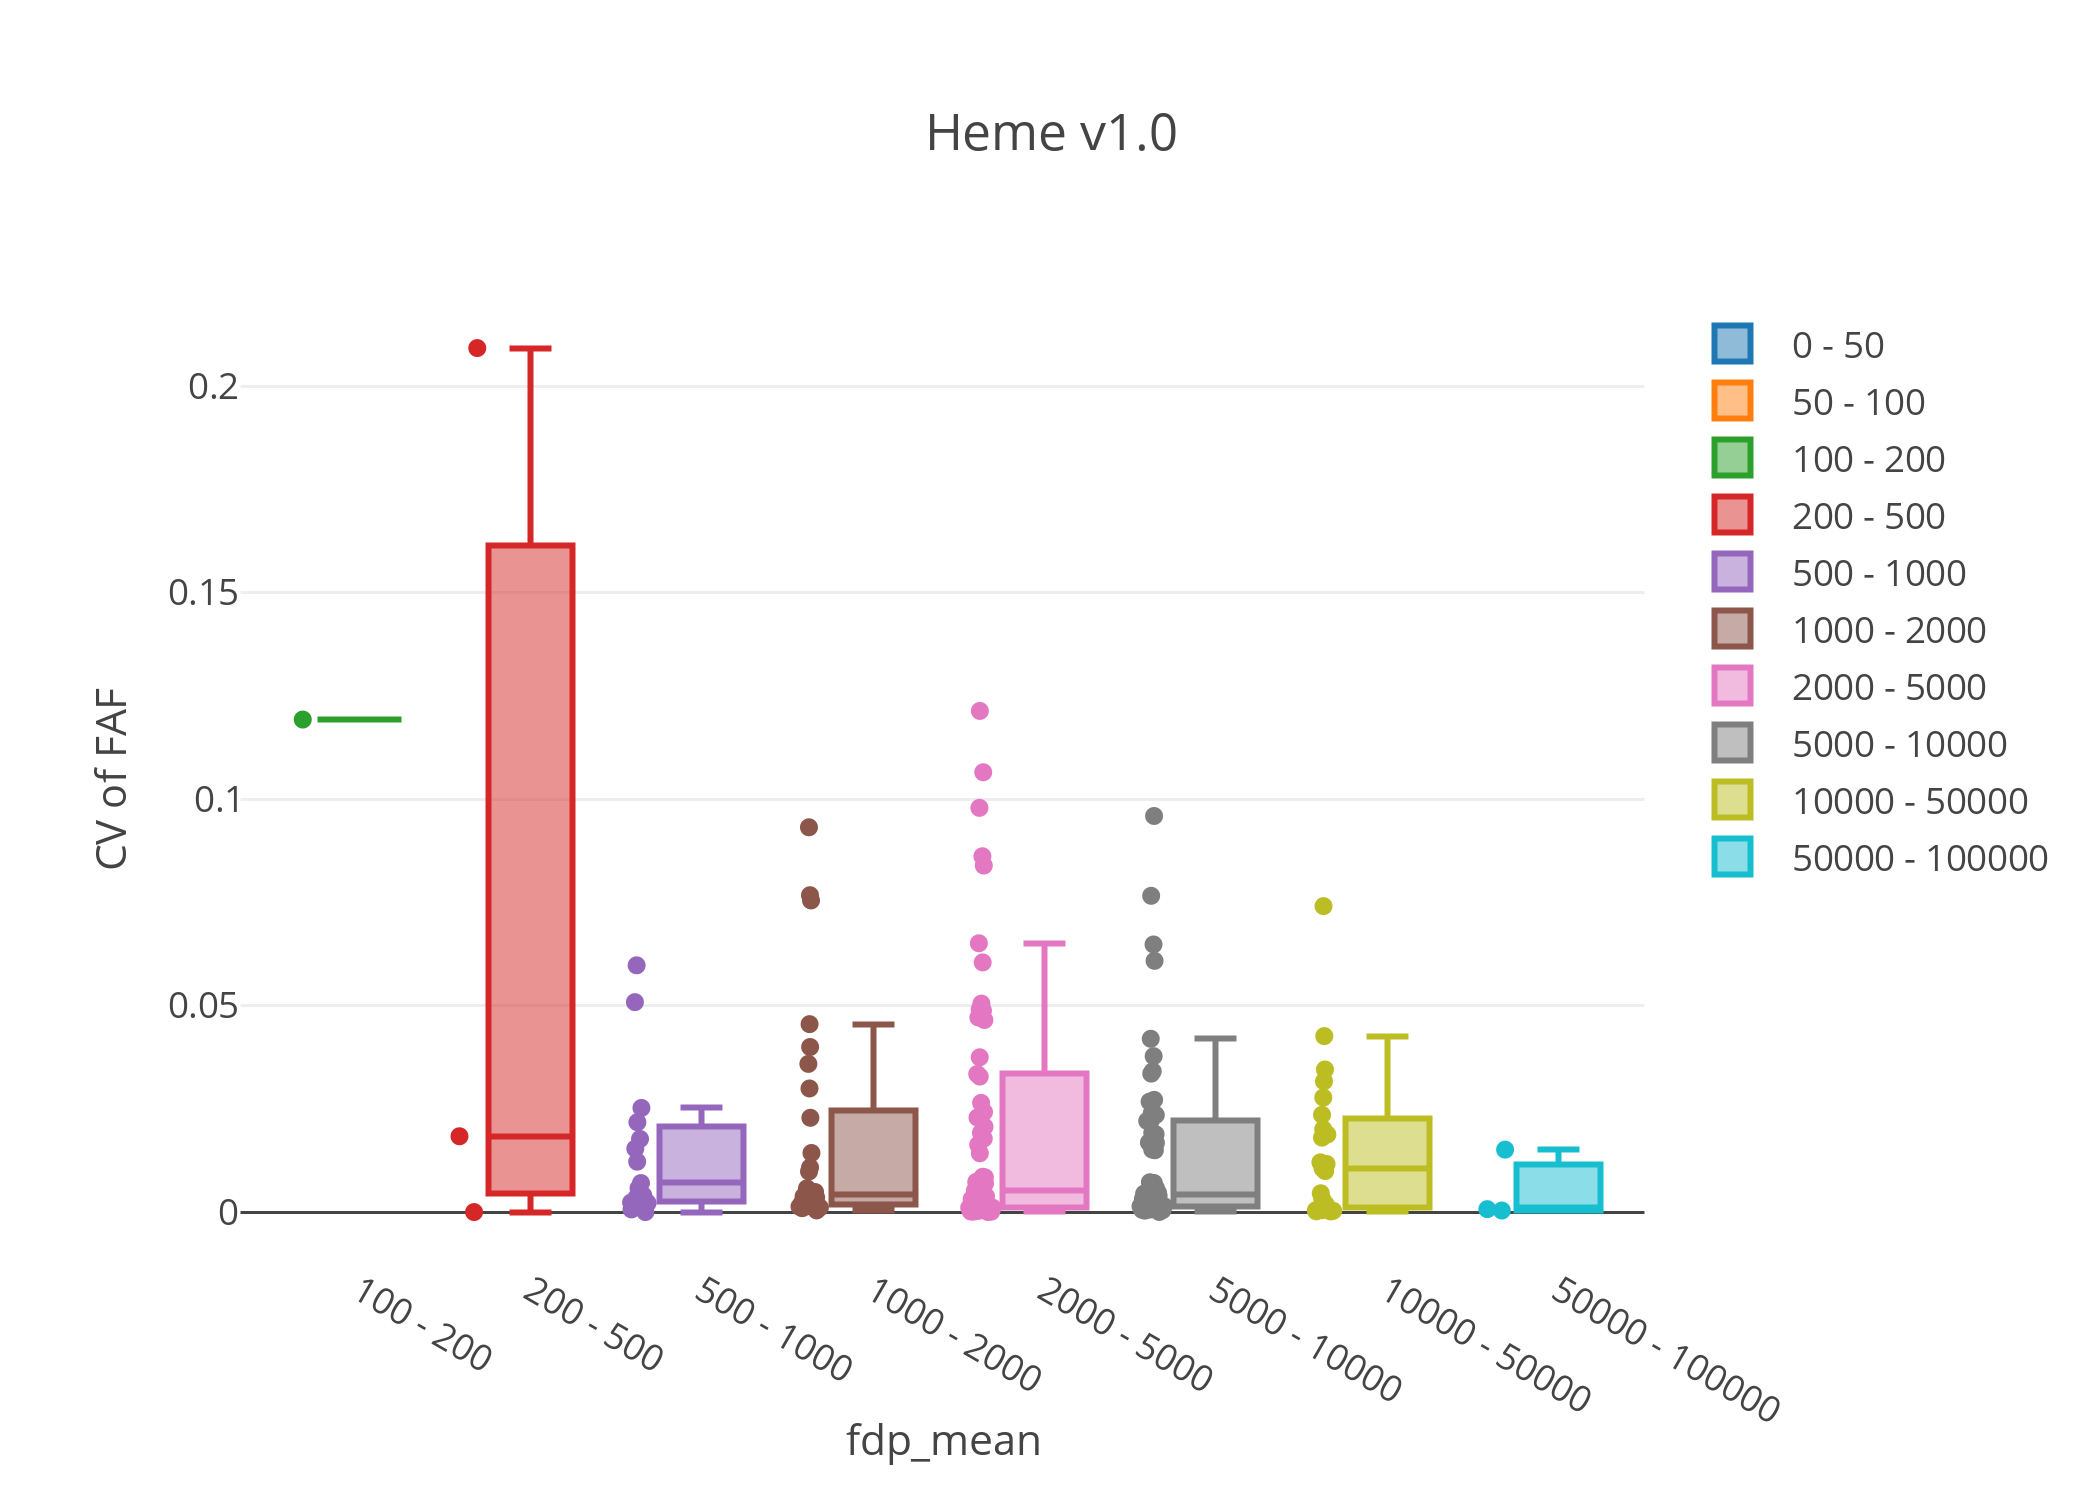
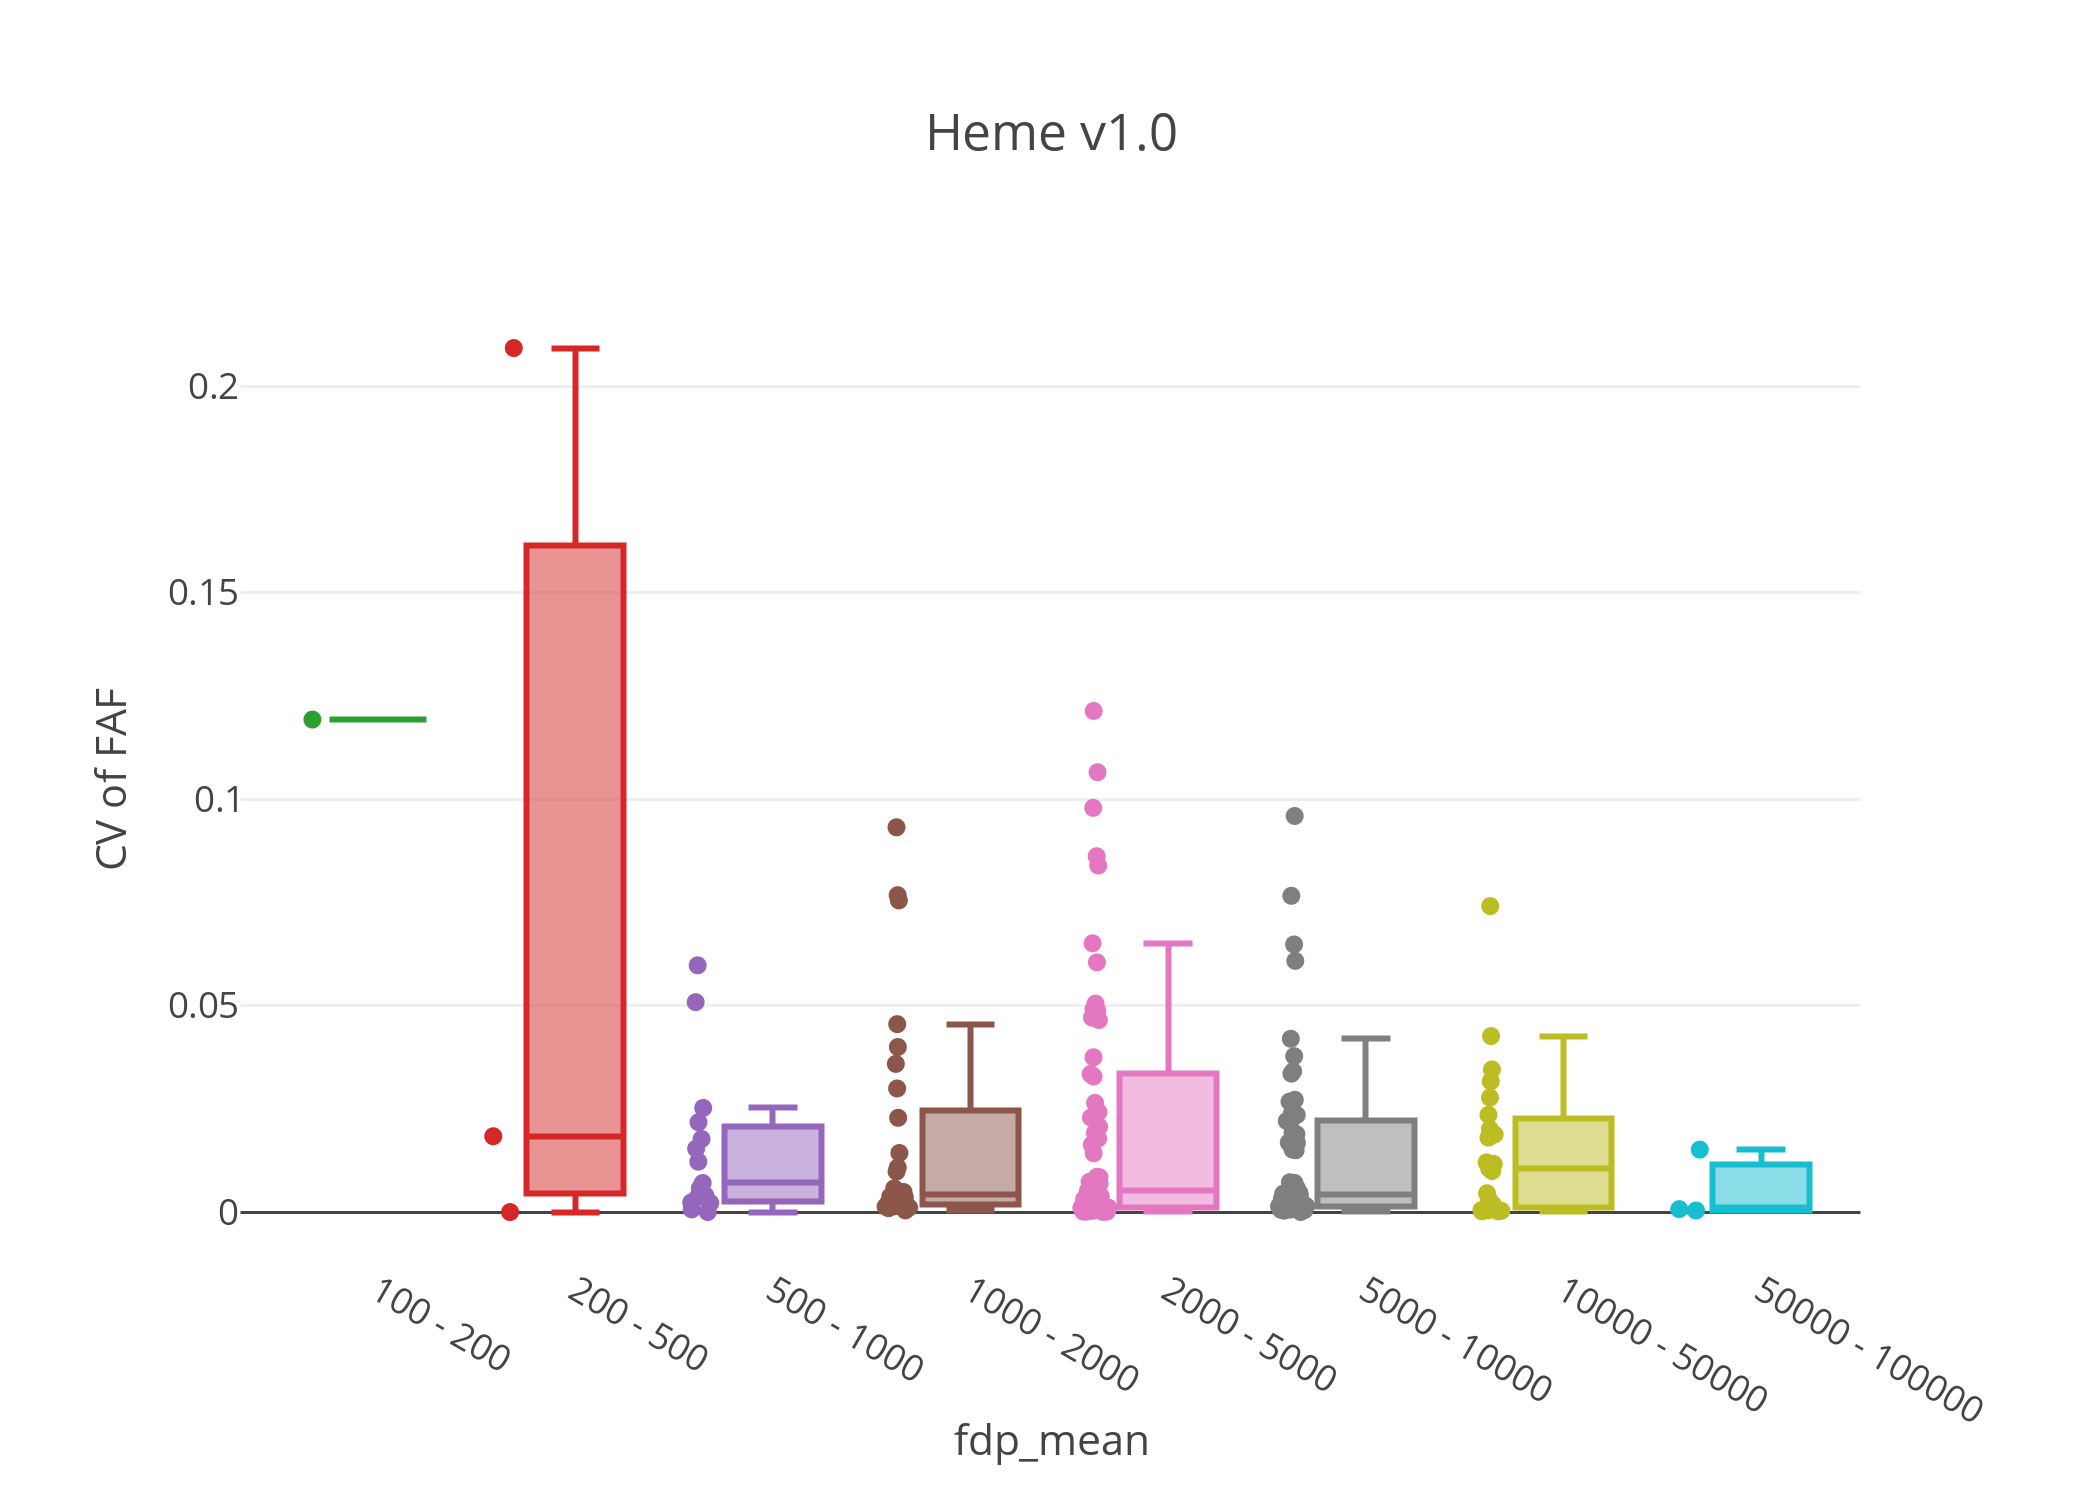
stats working, running sims

diff --git a/17_cumulative_mean_cv.py b/17_cumulative_mean_cv.py
@@ -12,6 +12,7 @@ import plotly
 import plotly.plotly as py
 import plotly.graph_objs as go
 import numpy as np
+from functions import plot_cumulative_cv
 
 
 print('plotting cumulative cv')
@@ -37,16 +38,38 @@ for file in os.listdir():
         df = pd.read_csv(file)
         panel_name = df.panel_name[0]
         panel_version = df.panel_version[0]
-
-        
-        trace_dict = plot_cumulative_cv(df, trace_dict)
+        for c in cols:
+            this_panel = []
+            for s in sides:
+                trace = plot_cumulative_cv(df, c, s)
+                trace_dict[(c,s)].append(trace)
+                trace.name = s
+                this_panel.append(trace)
+                
+            os.chdir('/Users/Anders/Dropbox/Projects/CPD_QC/sql2/Plots')
+            xlab = dict(title = c)
+            ylab = dict(title = 'Average mean FAF CV')
+            layout = go.Layout(title = 'Average mean FAF CV for{} {}'.\
+                               format(panel_name, panel_version), 
+                               xaxis = xlab, yaxis = ylab)
+            fig = go.Figure(data=this_panel, layout=layout)
+            try:
+                py.image.save_as(fig, filename='cumulative_CV_{}_{}_{}.png'.\
+                                 format(c, panel_name, panel_version), scale = 3)
+            except:
+                plotly.offline.plot(fig)
+                input("Press Enter to continue...")
         
 
 os.chdir('/Users/Anders/Dropbox/Projects/CPD_QC/sql2/Plots')
 for k, v in trace_dict.items():
-xlab = dict(title = 'Panels')
-ylab = dict(title = 'Number of Runs')
-layout = go.Layout(title = 'Number of Runs by Panel', 
-                   xaxis = xlab, yaxis = ylab)
-fig = go.Figure(data=traces, layout=layout)
-py.image.save_as(fig, filename='num_runs.png', scale = 3)
+    xlab = dict(title = k[0])
+    ylab = dict(title = 'Average mean FAF CV to the {}'.format(k[1]))
+    layout = go.Layout(title = 'Average mean FAF CV to the {}'.format(k[1]), 
+                       xaxis = xlab, yaxis = ylab)
+    fig = go.Figure(data=v, layout=layout)
+    try:
+        py.image.save_as(fig, filename='{}_{}_all_panels.png'.\
+                         format(k[0], k[1]), scale = 3)
+    except:
+        plotly.offline.plot(fig)

diff --git a/18_monte_carlo.py b/18_monte_carlo.py
@@ -5,22 +5,49 @@ Created on Mon Aug 14 23:11:44 2017
 
 @author: Anders
 """
-import numpy as np
 import pandas as pd
+import os
+import plotly
+import plotly.plotly as py
+import plotly.graph_objs as go
+import numpy as np
 
 os.chdir('/Users/Anders/Dropbox/Projects/CPD_QC/sql2/Stats')
-df = pd.read_csv('Heme_v1.0_stats.csv').dropna(subset = ['faf_mean', 'faf_std', 
-                'faf_count'])
-df = df.loc[df.faf_std>0, :].reset_index(drop=True)
-nsamples = 0
-nrows = len(df)
-samples = pd.Series()
-while nsamples < 10000:
-    r = np.random.randint(0, nrows)
-    mean = df.loc[r, 'faf_mean']
-    s = pd.Series(np.random.normal(mean, df.loc[r, 'faf_std'], 
-                                   df.loc[r, 'faf_count']))
-    
-    samples = samples.append((s>1.5*mean) | (s<mean/1.5) )
-    nsamples += len(s)
-    
+
+total = 100000
+clin_change = 0.3
+for file in os.listdir():
+    if file.endswith(".csv"):
+        os.chdir('/Users/Anders/Dropbox/Projects/CPD_QC/sql2/Stats')
+        df = pd.read_csv(file)
+        panel_name = df.panel_name[0]
+        panel_version = df.panel_version[0]
+        df = df.dropna(subset = ['faf_mean', 'faf_std', 'faf_count'])
+        df = df.loc[df.faf_std>0, :].reset_index(drop=True)
+        
+        nsamples = 0
+        nrows = len(df)
+        samples = pd.Series()
+        while nsamples < total:
+            r = np.random.randint(0, nrows)
+            mean = df.loc[r, 'faf_mean']
+            s = pd.Series(np.random.normal(mean, df.loc[r, 'faf_std'], 
+                                           df.loc[r, 'faf_count']))
+            samples = samples.append((s>(1+clin_change)*mean) | 
+                                    (s<mean*(1-clin_change)) )
+            nsamples += len(s)
+        
+        samples = samples[:total] 
+        sim = pd.DataFrame(columns=['s', 'surviving'])
+        sim['s'] = samples
+        sim = sim.reset_index(drop = True)
+
+        for i in range(total): 
+            sim.loc[i, 'surviving'] = (nrows - sum(sim.s[:i]))/nrows
+        
+        os.chdir('/Users/Anders/Dropbox/Projects/CPD_QC/sql2/Simulations')
+        sim.to_csv('{}_{}_{}_simulation.csv'.format(panel_name, panel_version, 
+                   total), index = False)
+
+
+

diff --git a/functions.py b/functions.py
@@ -13,8 +13,10 @@ import numpy as np
 from scipy import stats
 
 def plot_cumulative_cv(df, col, side):
+    panel_name = df.panel_name[0]
+    panel_version = df.panel_version[0]
     df = df.dropna(subset =['faf_cv', col]).\
-        sort_values(by = col, ascending = False).\
+        sort_values(by = col, ascending = True).\
         reset_index(drop = True)
     df['cum_avg'] = np.nan
     df = df[[col, 'faf_cv', 'cum_avg']]
@@ -124,7 +126,7 @@ def make_box(x, df, cutoffs, panel_name, panel_version):
     xlab = dict(title = x)
     ylab = dict(title = 'CV of FAF')
     layout = go.Layout(title = '{} v{}'.format(panel_name, panel_version), 
-                       xaxis = xlab, yaxis = ylab)
+                       xaxis = xlab, yaxis = ylab, showlegend=False)
     fig = go.Figure(data=data,layout=layout)
 
     py.image.save_as(fig, filename=filename, scale = 3)

diff --git a/19_plot_monte_carlo.py b/19_plot_monte_carlo.py
@@ -1,0 +1,24 @@
+#!/usr/bin/env python3
+# -*- coding: utf-8 -*-
+"""
+Created on Tue Aug 15 11:15:15 2017
+
+@author: Anders
+"""
+
+os.chdir('/Users/Anders/Dropbox/Projects/CPD_QC/sql2/Plots')
+traces = []
+for k, v in sample_dict.items():
+
+    trace = go.Scatter(x = pd.Series(range(nrows)),
+                        y = df.surviving,
+                       mode = 'line',
+                       name = '{} {}'.format(k[0], k[1]))
+    traces.append(trace)
+    
+xlab = dict(title = 'Samples')
+ylab = dict(title = 'Percent without {}% change'.format(clin_change*100))
+layout = go.Layout(title = 'Simulated Clinical Significance of Variance, n = {}'.\
+                   format(total), xaxis = xlab, yaxis = ylab)
+fig = go.Figure(data=traces, layout=layout)
+py.image.save_as(fig, filename='simulation.png.', scale = 3)
